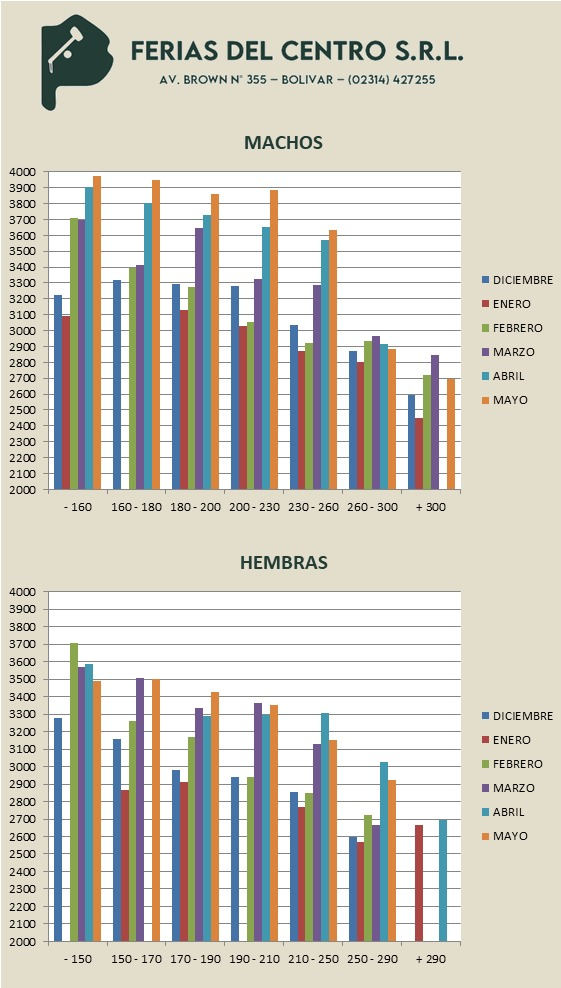
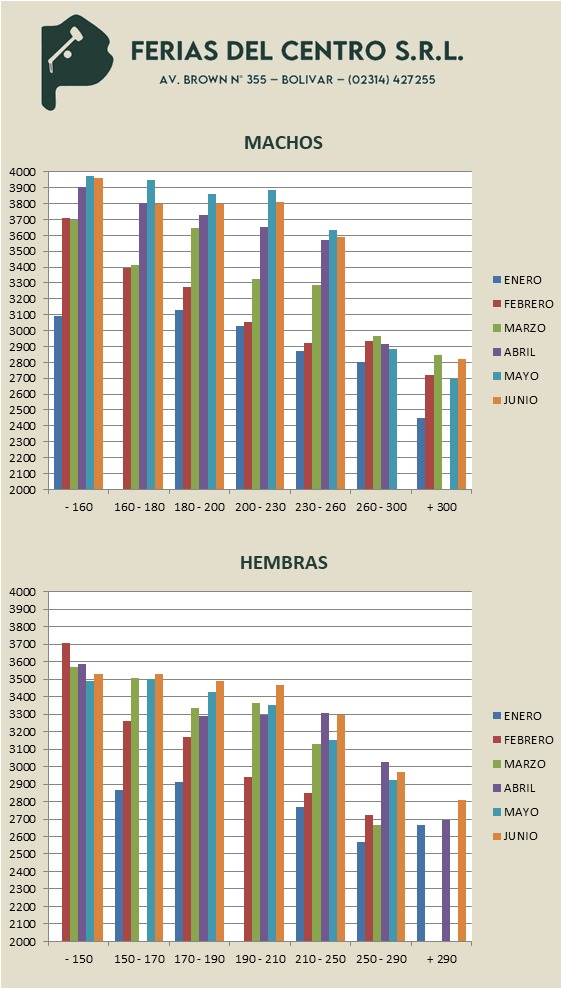
actualizacion de datos

Changed region(s): [[0.0909, 0.5769, 0.9697, 0.9717], [0.0909, 0.1518, 0.9697, 0.5162]]

diff --git a/app/remates/components/data/preciosUltimoRemate.tsx b/app/remates/components/data/preciosUltimoRemate.tsx
@@ -1,139 +1,135 @@
 export const preciosUltimoRemate = {
-  fecha: "21/05/2025",
+  fecha: "24/06/2025",
   machos: [
     {
       categoria: "- 160",
       kg: "160",
-      min: "3.226",
-      max: "4.345",
-      prom: "3.977",
-      cantidad: "74",
+      min: "3.162",
+      max: "4.116",
+      prom: "3.962",
+      cantidad: "83",
     },
     {
       categoria: "160 - 180",
       kg: "180",
-      min: "3.671",
-      max: "4.123",
-      prom: "3.948",
-      cantidad: "41",
+      min: "3.799",
+      max: "3.799",
+      prom: "3.799",
+      cantidad: "70",
     },
     {
       categoria: "180 - 200",
       kg: "200",
-      min: "3.641",
-      max: "3.954",
-      prom: "3.859",
-      cantidad: "66",
+      min: "3.462",
+      max: "3.947",
+      prom: "3.798",
+      cantidad: "293",
     },
     {
       categoria: "200 - 230",
       kg: "230",
-      min: "3.491",
-      max: "3.980",
-      prom: "3.889",
-      cantidad: "155",
+      min: "3.480",
+      max: "3.905",
+      prom: "3.811",
+      cantidad: "128",
     },
     {
       categoria: "230 - 260",
       kg: "260",
-      min: "3.516",
-      max: "3.651",
-      prom: "3.632",
-      cantidad: "82",
+      min: "3.361",
+      max: "3.787",
+      prom: "3.589",
+      cantidad: "62",
     },
     {
       categoria: "260 - 300",
       kg: "300",
-      min: "2.882",
-      max: "2.882",
-      prom: "2.882",
-      cantidad: "2",
+      min: "0",
+      max: "0",
+      prom: "0",
+      cantidad: "0",
     },
     {
       categoria: "+ 300",
       kg: "300+",
-      min: "2.616",
-      max: "2.843",
-      prom: "2.694",
-      cantidad: "19",
+      min: "2.669",
+      max: "2.975",
+      prom: "2.821",
+      cantidad: "27",
     },
   ],
   hembras: [
     {
       categoria: "- 150",
       kg: "150",
-      min: "3.303",
-      max: "3.700",
-      prom: "3.488",
-      cantidad: "56",
+      min: "2.878",
+      max: "3.643",
+      prom: "3.530",
+      cantidad: "67",
     },
     {
       categoria: "150 - 170",
       kg: "170",
-      min: "3.423",
-      max: "3.616",
-      prom: "3.499",
-      cantidad: "112",
+      min: "3.418",
+      max: "3.545",
+      prom: "3.529",
+      cantidad: "30",
     },
     {
       categoria: "170 - 190",
       kg: "190",
-      min: "3.316",
-      max: "3.644",
-      prom: "3.424",
-      cantidad: "114",
+      min: "3.216",
+      max: "3.636",
+      prom: "3.498",
+      cantidad: "140",
     },
     {
       categoria: "190 - 210",
       kg: "210",
-      min: "3.238",
-      max: "3.391",
-      prom: "3.351",
-      cantidad: "74",
+      min: "3.392",
+      max: "3.500",
+      prom: "3.464",
+      cantidad: "88",
     },
     {
       categoria: "210 - 250",
       kg: "250",
-      min: "3.004",
-      max: "3.256",
-      prom: "3.154",
-      cantidad: "65",
+      min: "3.066",
+      max: "3.436",
+      prom: "3.296",
+      cantidad: "56",
     },
     {
       categoria: "250 - 290",
       kg: "290",
-      min: "2.759",
-      max: "3.038",
-      prom: "2.921",
-      cantidad: "66",
+      min: "2.820",
+      max: "3.047",
+      prom: "2.970",
+      cantidad: "43",
     },
     {
       categoria: "+ 290",
       kg: "290+",
-      min: "0",
-      max: "0",
-      prom: "0",
-      cantidad: "0",
+      min: "2.808",
+      max: "2.808",
+      prom: "2.808",
+      cantidad: "2",
     },
   ],
   vacas: [
     {
-      categoria: "VACAS NUEVAS C/GTIA DE PREÑEZ",
-      precio: "1.400.000 - 1.500.000",
-      promedio: "1.431.250",
-      cantidad: "32",
-    },
-    {
-      categoria: "VACAS MEDIO USO C/GTIA DE PREÑEZ",
-      precio: "1.000.000 - 1.200.000",
-      promedio: "1.089.516",
-      cantidad: "62",
-    },
-    {
-      categoria: "VACAS USADAS C/GTIA DE PREÑEZ",
-      precio: "700.000 - 950.000",
-      promedio: "921.500",
+      categoria: "VAQUILLONAS C/GTIA DE PREÑEZ",
+      min: "1.230.000",
+      max: "1.460.000",
+      promedio: "1.295.500",
       cantidad: "20",
+    },
+    {
+      categoria: "VACAS CUT C/GTIA DE PREÑEZ",
+      min: "800.000",
+      max: "1.020.000",
+      promedio: "951.590",
+      cantidad: "44",
     },
   ],
 };

diff --git a/app/remates/components/preciosUltimoRemate.tsx b/app/remates/components/preciosUltimoRemate.tsx
@@ -15,7 +15,7 @@ export function PreciosUltimoRemate({ precios }: { precios: any }) {
         {/* Grupo izquierdo */}
         <div className="flex items-center gap-3 flex-wrap">
           <BarChart3 className="h-6 w-6 text-customGreen" />
-          <h2 className="text-2xl font-bold text-customGreen">
+          <h2 className="text-2xl md:text-3xl font-bold text-customGreen">
             Precios del Último Remate
           </h2>
           <Badge className="mt-1">{precios.fecha}</Badge>
@@ -110,7 +110,10 @@ export function PreciosUltimoRemate({ precios }: { precios: any }) {
                     CATEGORÍA
                   </th>
                   <th className="px-4 py-3 text-center text-sm font-medium text-gray-700">
-                    RANGO DE PRECIOS
+                    $ MIN
+                  </th>
+                  <th className="px-4 py-3 text-center text-sm font-medium text-gray-700">
+                    $ MAX
                   </th>
                   <th className="px-4 py-3 text-center text-sm font-medium text-gray-700">
                     PROMEDIO
@@ -130,7 +133,10 @@ export function PreciosUltimoRemate({ precios }: { precios: any }) {
                       {item.categoria}
                     </td>
                     <td className="px-4 py-3 text-sm text-center">
-                      {item.precio}
+                      {item.min}
+                    </td>
+                    <td className="px-4 py-3 text-sm text-center">
+                      {item.max}
                     </td>
                     <td className="px-4 py-3 text-sm text-center font-medium">
                       {item.promedio}

diff --git a/app/remates/components/data/resultadosUltimoRemate.tsx b/app/remates/components/data/resultadosUltimoRemate.tsx
@@ -1,14 +1,28 @@
 export const resultadosUltimoRemate = {
-  fecha: "21/05/2025",
-  totalCabezas: 1000,
-  totalVendidas: 987,
-  porcentajeVenta: 98.7,
-  promedioGeneral: 3.456,
-  mejorPrecio: 4.345,
+  fecha: "24/06/2025",
+  totalCabezas: "1153",
+  totalVendidas: "1153",
+  porcentajeVenta: "100",
+  promedioGeneral: "3.4837",
+  mejorPrecio: "1.460.000",
   categorias: [
-    { tipo: "Terneros", vendidos: 685, total: 700, promedio: 3.889 },
-    { tipo: "Terneras", vendidos: 108, total: 112, promedio: 3.499 },
-    { tipo: "Vacas", vendidos: 114, total: 114, promedio: 1.167 },
-    { tipo: "Vaquillonas", vendidos: 80, total: 74, promedio: 3.351 },
+    {
+      tipo: "Machos",
+      vendidos: "663",
+      total: "663",
+      promedio: "3.7618",
+    },
+    {
+      tipo: "Hembras",
+      vendidos: "426",
+      total: "426",
+      promedio: "3.4151",
+    },
+    {
+      tipo: "Vacas con garantía de preñez",
+      vendidos: "64",
+      total: "64",
+      promedio: "1.0591",
+    },
   ],
 };

diff --git a/components/sections/next-remate-home-section.tsx b/components/sections/next-remate-home-section.tsx
@@ -53,7 +53,7 @@ export function NextRemateSection() {
           <Link href="/remates" className="block">
             <div className="bg-white rounded-2xl shadow-xl border border-gray-100 transition-all duration-300 hover:shadow-2xl hover:-translate-y-1 flex flex-col">
               <div className="flex flex-col md:flex-row">
-                <div className="relative w-full md:w-1/2 aspect-[4/3] md:aspect-auto  overflow-hidden rounded-tl-2xl rounded-bl-2xl">
+                <div className="relative w-full md:w-1/2 aspect-[4/3] md:aspect-auto  overflow-hidden  rounded-tl-2xl rounded-tr-2xl  md:rounded-br-none md:rounded-tr-none md:rounded-tl-2xl md:rounded-bl-2xl">
                   <Image
                     src="/images/vacas4.jpg"
                     alt="Vacunos"

diff --git a/components/layout/footer.tsx b/components/layout/footer.tsx
@@ -54,7 +54,7 @@ export function Footer() {
         <div className="flex flex-col md:flex-row justify-between items-center text-white/60">
           <p>© {new Date().getFullYear()} Ferias del Centro S.R.L.</p>
           <p className="mt-4 md:mt-0 flex items-center space-x-2">
-            <span>Diseñado y desarrollado por Manuel Alejandro García</span>
+            <span>Diseño y desarrollo web por Manuel Alejandro García</span>
             <Link
               href="https://wa.me/+5492314464231"
               target="_blank"

diff --git a/app/remates/components/proximosRemates.tsx b/app/remates/components/proximosRemates.tsx
@@ -10,7 +10,7 @@ export function ProximosRemates({ remates }: { remates: rematesDataType[] }) {
     <section>
       <div className="flex items-center mb-8">
         <Calendar className="h-6 w-6 text-customGreen mr-3" />
-        <h2 className="text-2xl font-bold text-customGreen">
+        <h2 className="text-2xl md:text-3xl font-bold text-customGreen">
           Próximos Remates
         </h2>
       </div>

diff --git a/app/remates/page.tsx b/app/remates/page.tsx
@@ -52,9 +52,7 @@ export default function RematesPage() {
         <Head>
           <link rel="preload" as="video" href="/video.mp4" type="video/mp4" />
         </Head>
-
         <VideoIntro />
-        <ProximosRemates remates={rematesData} />
         <PreciosUltimoRemate precios={preciosUltimoRemate} />
         <ResultadosRemate resultados={resultadosUltimoRemate} />
       </div>

diff --git a/components/sections/contact-section.tsx b/components/sections/contact-section.tsx
@@ -22,7 +22,7 @@ export function ContactSection() {
     {
       icon: <Phone className="h-5 w-5 text-customAccent" />,
       title: "Teléfono",
-      details: "+54 2314 123456",
+      details: "+5492314619451 ",
     },
     {
       icon: <Mail className="h-5 w-5 text-customAccent" />,
